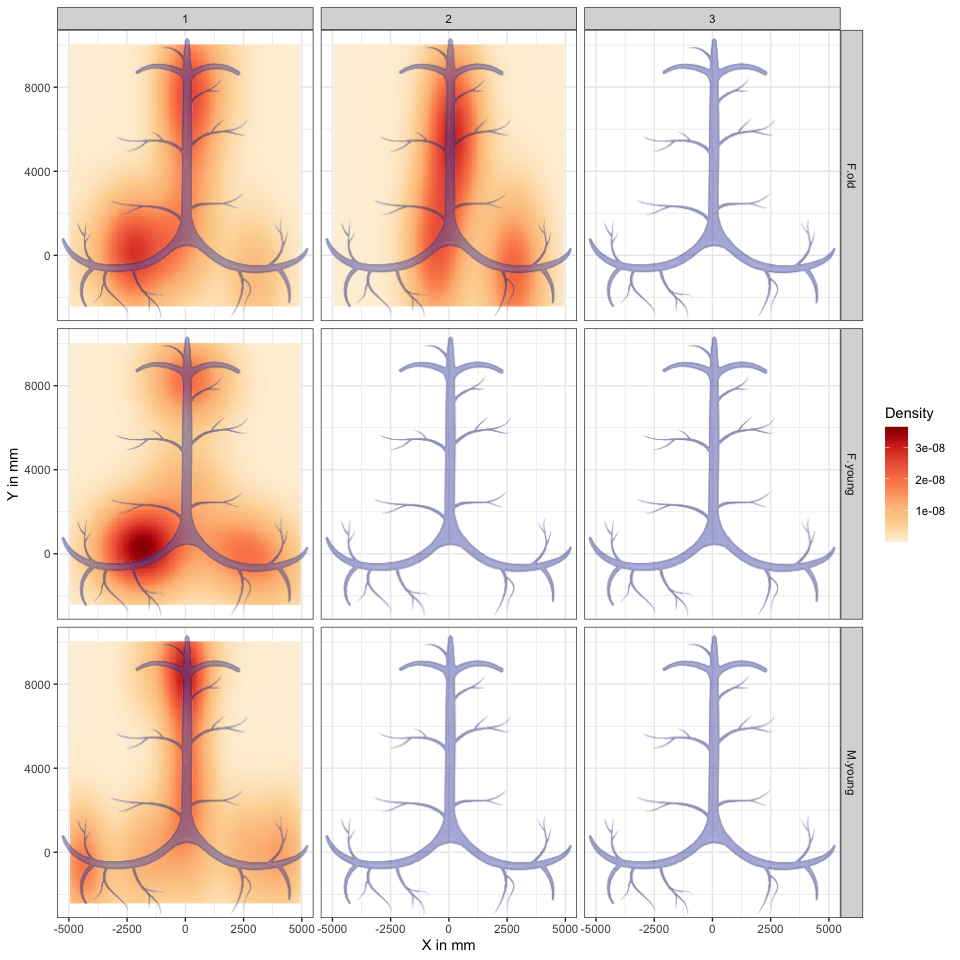
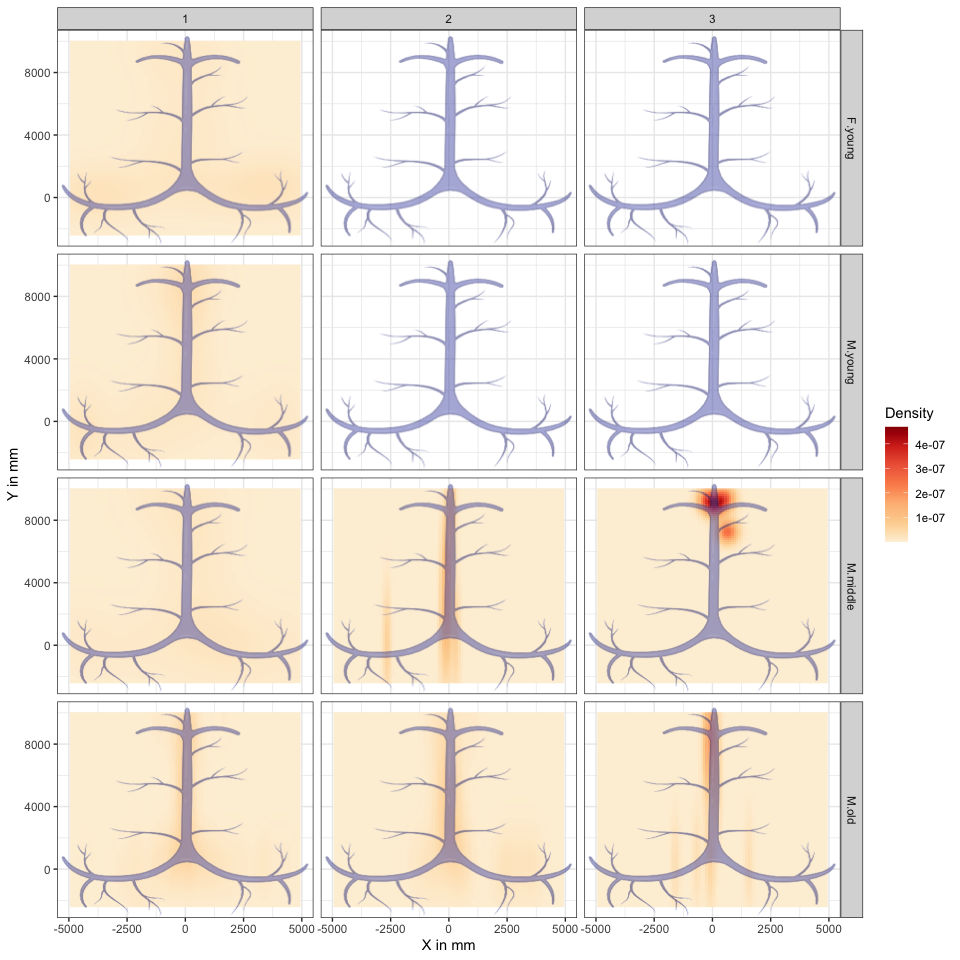
Update report with new data

diff --git a/meninges_report.md b/meninges_report.md
@@ -16,9 +16,9 @@ provide insight to different aspects of the data.
 
 ## Exploratory statistics
 
-The current analysis includes data on 165 lymphatic structures from 16
-mice, belonging to 2 strains, 2 age categories and 2 genders, for a
-total of 4 groups ([Table 1](#tbl-stats)).
+The current analysis includes data on 453 lymphatic structures from 31
+mice, belonging to 2 strains, 3 age categories and 2 genders, for a
+total of 5 groups ([Table 1](#tbl-stats)).
 
 <table>
 <caption>Table 1: Basic statistics on the TLSs from mice meninges. Size
@@ -27,7 +27,7 @@ reported in terms of the number of structures per each phenotype or
 sinus location, respectively.</caption>
 <colgroup>
 <col style="width: 4%" />
-<col style="width: 6%" />
+<col style="width: 7%" />
 <col style="width: 7%" />
 <col style="width: 5%" />
 <col style="width: 12%" />
@@ -52,47 +52,58 @@ sinus location, respectively.</caption>
 <tbody>
 <tr class="odd">
 <td style="text-align: left;">F</td>
-<td style="text-align: left;">old</td>
+<td style="text-align: left;">young</td>
 <td style="text-align: left;">APP</td>
-<td style="text-align: right;">4</td>
-<td style="text-align: right;">56</td>
-<td style="text-align: right;">113.0</td>
+<td style="text-align: right;">5</td>
+<td style="text-align: right;">78</td>
+<td style="text-align: right;">82.9</td>
 <td style="text-align: right;">0.4</td>
-<td style="text-align: left;">48-7-1</td>
-<td style="text-align: left;">4-25-27</td>
+<td style="text-align: left;">77-1-0</td>
+<td style="text-align: left;">23-32-23</td>
 </tr>
 <tr class="even">
-<td style="text-align: left;">F</td>
-<td style="text-align: left;">young</td>
-<td style="text-align: left;">C57</td>
-<td style="text-align: right;">3</td>
-<td style="text-align: right;">19</td>
-<td style="text-align: right;">81.8</td>
-<td style="text-align: right;">0.4</td>
-<td style="text-align: left;">19-0-0</td>
-<td style="text-align: left;">5-6-8</td>
-</tr>
-<tr class="odd">
 <td style="text-align: left;">M</td>
 <td style="text-align: left;">young</td>
 <td style="text-align: left;">APP</td>
 <td style="text-align: right;">5</td>
-<td style="text-align: right;">80</td>
-<td style="text-align: right;">105.0</td>
+<td style="text-align: right;">87</td>
+<td style="text-align: right;">99.0</td>
 <td style="text-align: right;">0.5</td>
-<td style="text-align: left;">80-0-0</td>
-<td style="text-align: left;">15-47-18</td>
+<td style="text-align: left;">86-1-0</td>
+<td style="text-align: left;">16-52-19</td>
+</tr>
+<tr class="odd">
+<td style="text-align: left;">M</td>
+<td style="text-align: left;">middle</td>
+<td style="text-align: left;">APP</td>
+<td style="text-align: right;">7</td>
+<td style="text-align: right;">70</td>
+<td style="text-align: right;">145.1</td>
+<td style="text-align: right;">0.5</td>
+<td style="text-align: left;">58-8-4</td>
+<td style="text-align: left;">18-40-12</td>
 </tr>
 <tr class="even">
 <td style="text-align: left;">M</td>
-<td style="text-align: left;">young</td>
+<td style="text-align: left;">old</td>
+<td style="text-align: left;">APP</td>
+<td style="text-align: right;">6</td>
+<td style="text-align: right;">45</td>
+<td style="text-align: right;">151.4</td>
+<td style="text-align: right;">0.6</td>
+<td style="text-align: left;">31-6-8</td>
+<td style="text-align: left;">4-34-7</td>
+</tr>
+<tr class="odd">
+<td style="text-align: left;">M</td>
+<td style="text-align: left;">old</td>
 <td style="text-align: left;">C57</td>
-<td style="text-align: right;">4</td>
-<td style="text-align: right;">10</td>
-<td style="text-align: right;">59.6</td>
-<td style="text-align: right;">0.3</td>
-<td style="text-align: left;">10-0-0</td>
-<td style="text-align: left;">6-4-0</td>
+<td style="text-align: right;">8</td>
+<td style="text-align: right;">173</td>
+<td style="text-align: right;">188.6</td>
+<td style="text-align: right;">0.5</td>
+<td style="text-align: left;">136-28-9</td>
+<td style="text-align: left;">42-103-28</td>
 </tr>
 </tbody>
 </table>
